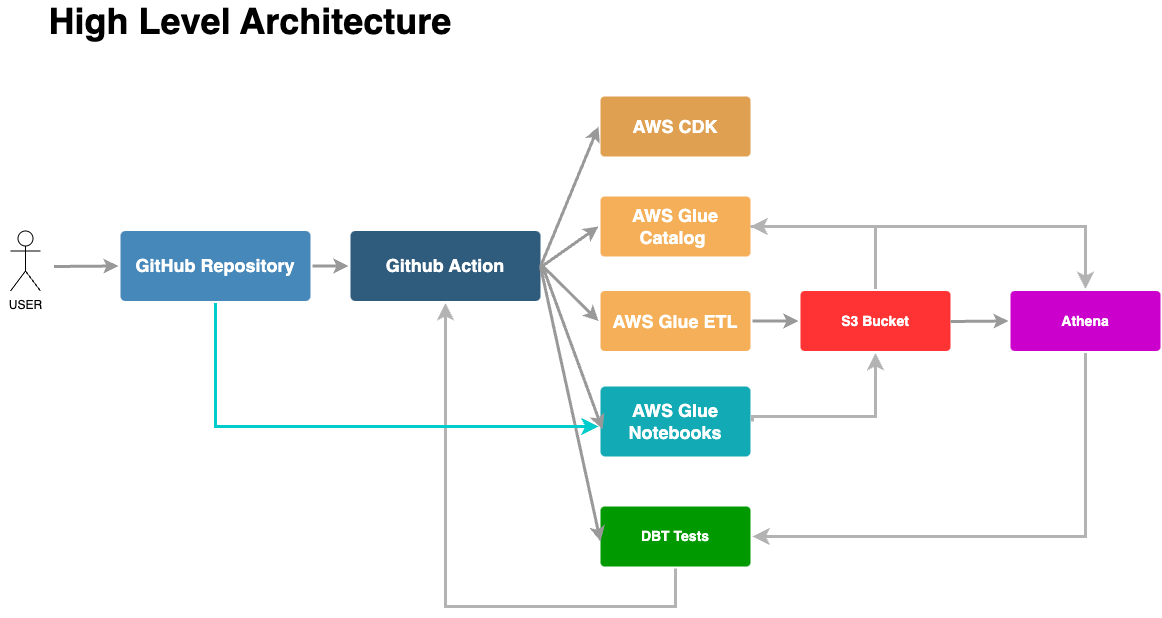
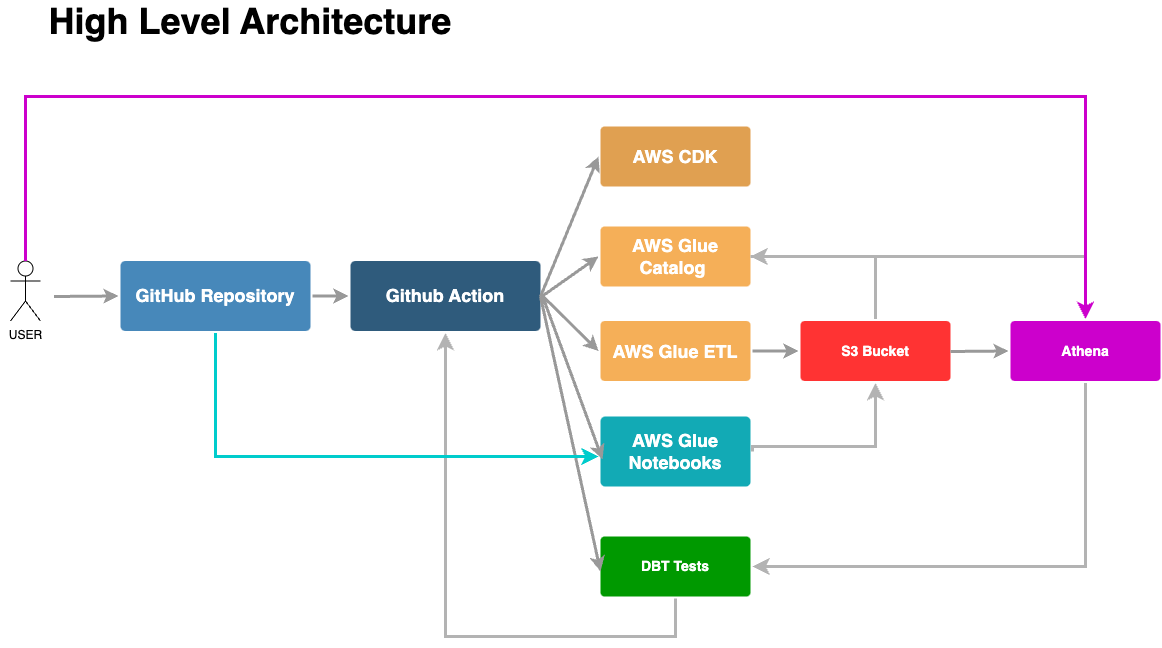
Added report for most growth last year

diff --git a/glue_job_scripts/report-most-growth-last-year-gluejob.py b/glue_job_scripts/report-most-growth-last-year-gluejob.py
@@ -6,7 +6,7 @@ from pyspark.sql.types import (
 )
 
 from pyspark.context import SparkContext
-from pyspark.sql.functions import sum, col, rank, asc, lit, when
+from pyspark.sql.functions import sum, col, rank, desc, lit, when
 from pyspark.sql.window import Window
 from awsglue.utils import getResolvedOptions
 from awsglue.context import GlueContext
@@ -54,55 +54,51 @@ sensor_reference_df = glueContext.create_dynamic_frame.from_catalog(
 
 sensor_reference_df.show(10)
 
-#### Calculate sensor counts 2019
+#### Calculate sensor counts previous year
 ##### Because the cutsoff at 2022-11-01, for the purpose of this analysis we are setting the end of each year to November 11
-sensor_counts_2019_df = sensor_counts_df \
-    .filter(col('date_time') >= '2018-11-01') \
-    .filter(col('date_time') < '2019-11-01') \
+previous_year_df = sensor_counts_df \
+    .filter(col('date_time') >= '2020-11-01') \
+    .filter(col('date_time') < '2021-11-01') \
     .groupBy('sensor_id') \
-    .agg(sum('hourly_count').alias('count_2019'))
+    .agg(sum('hourly_count').alias('count_previous_year'))
 
-sensor_counts_2019_df.show(10)
+previous_year_df.show(10)
 
-#### Calculate sensor counts 2022
-sensor_counts_2022_df = sensor_counts_df \
+#### Calculate sensor counts last year
+last_year_df = sensor_counts_df \
     .filter(col('date_time') >= '2021-11-01') \
     .filter(col('date_time') < '2022-11-01') \
     .groupBy('sensor_id') \
-    .agg(sum('hourly_count').alias('count_2022'))
+    .agg(sum('hourly_count').alias('count_last_year'))
 
-sensor_counts_2022_df.show(10)
+last_year_df.show(10)
 
 #### Calculate the decline and decline percentages for each sensor
-sensor_decline_df = sensor_counts_2019_df \
-    .join(sensor_counts_2022_df, on='sensor_id', how='inner') \
-    .withColumn('decline', (col('count_2019') - col('count_2022'))) \
-    .withColumn(
-        'decline_percent',
-        ((col('count_2019') - col('count_2022')) / col('count_2019')) * 100
-    )
+growth_df = previous_year_df \
+    .join(last_year_df, on='sensor_id', how='inner') \
+    .withColumn('growth', (col('count_last_year') - col('count_previous_year'))) \
+    .withColumn('growth_percent', ((col('count_last_year') - col('count_previous_year')) / col('count_previous_year')) * 100)
 
-sensor_decline_df.show(10)
+growth_df.show(10)
 
 #### Join reference and select relevant columns
-sensor_decline_df = sensor_decline_df.join(
+growth_df = growth_df.join(
     sensor_reference_df,
     col("sensor_id") == col("location_id"),
     "left"
 )
 
-sensor_decline_df = sensor_decline_df.select(
+growth_df = growth_df.select(
     col('sensor_id'),
     col('sensor_description').alias('location_name'),
-    col('count_2019').cast('int'),
-    col('count_2022').cast('int'),
-    col('decline'),
-    col('decline_percent')
+    col('count_previous_year').cast('int'),
+    col('count_last_year').cast('int'),
+    col('growth'),
+    col('growth_percent')
 ).orderBy(
-    desc('decline_percent')
+    desc('growth_percent')
 )
 
-sensor_decline_df.show(100, truncate=False)
+growth_df.show(100, truncate=False)
 
-#### Upload to S3
-util.upload_to_s3(glueContext, sensor_decline_df, s3_path)
+util.upload_to_s3(glueContext, growth_df, s3_path)

diff --git a/README.md b/README.md
@@ -21,15 +21,21 @@ This repository contains the artefacts requested as part of the application proc
 
 High Level Achitecture
 ============
-A user can interact with this product in two ways
-- Viewing the notebook reports found in the /glue_notebooks directory
+A user can interact with this product in three ways
+- Viewing the notebook reports found here - [Glue Notebooks](glue_notebooks/)
 - Pushing a change to the repository will initiate a Github action that deploys to CDK, runs all the glue jobs and runs the DBT tests
+- - [Example test run](https://github.com/hugh-nguyen/pedestrian-analysis/actions/runs/4847011503/jobs/8636882021)
+- Exploration through Athena with SQL compliant interface
 
 ![alt text](/images/pa-hl-architecture.png)
 
 Glue Jupyter Notebooks
 ============
-The Jupyter Notebooks are generated using Glue servers - https://docs.aws.amazon.com/glue/latest/dg/console-notebooks.html
+The Jupyter Notebooks are generated using Glue servers 
+- https://docs.aws.amazon.com/glue/latest/dg/console-notebooks.html
+
+You can find the Jupyter Notebooks exported and uploaded here
+- [Glue Notebooks](glue_notebooks/)
 
 
 Glue ETL Scripts
@@ -44,6 +50,8 @@ Parquet Tables in S3
 ============
 Assets are stored in S3 in the bucket "pedestrian-analysis-working-bucket"
 - Data is loaded into here using the Glue Jobs or Notebooks
+![alt text](/images/pa-s3-parquet-1.png)
+![alt text](/images/pa-s3-parquet-2.png)
 
 Glue Catalog Tables
 ============
